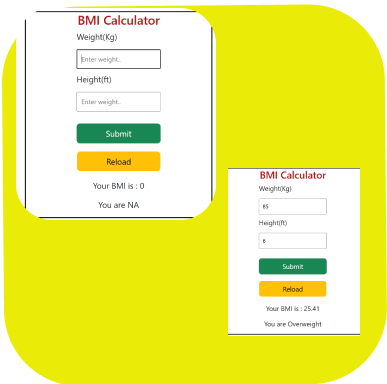
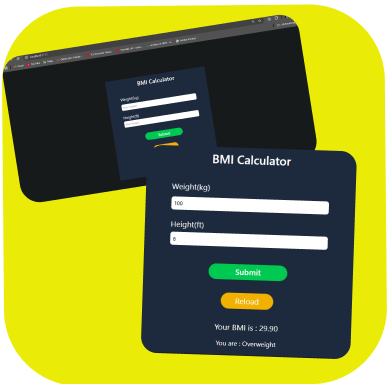
add a new project

diff --git a/app/components/ProjectsOverview/BmiCalculator.js b/app/components/ProjectsOverview/BmiCalculator.js
@@ -1,0 +1,240 @@
+"use client";
+import React, { useRef, useState } from "react";
+// Import Swiper React components
+import { Swiper, SwiperSlide } from "swiper/react";
+
+import Image from "next/image";
+
+// Import Swiper styles
+import "swiper/css";
+import "swiper/css/free-mode";
+import "swiper/css/navigation";
+import "swiper/css/thumbs";
+
+import styles from "./Projectoverview.module.css";
+
+// import required modules
+import { FreeMode, Navigation, Thumbs, Autoplay } from "swiper/modules";
+import Link from "next/link";
+
+const BmiCalculator = () => {
+  const [thumbsSwiper, setThumbsSwiper] = useState(null);
+  return (
+    <div className="main-container p-10">
+      <h1 className="flex justify-center text-5xl font-semibold mb-10">
+        BMI Calculator Using React Js
+      </h1>
+      <div className="sub-container bg-zinc-700 rounded-lg p-3">
+        <h2 className="text-2xl font-semibold text-red-500 py-2 pl-5">
+          Project Images :-
+        </h2>
+
+        <Swiper
+          styles={{
+            "--swiper-navigation-color": "#fff",
+            "--swiper-pagination-color": "#fff",
+          }}
+          spaceBetween={10}
+          navigation={true}
+          thumbs={{ swiper: thumbsSwiper }}
+          autoplay={{
+            delay: 3000,
+            disableOnInteraction: false,
+          }}
+          loop={true}
+          modules={[FreeMode, Navigation, Thumbs, Autoplay]}
+          className={styles.mySwiper2}
+        >
+          <SwiperSlide>
+            <Image
+              src="/Overview/frontendprojects/bmicalculator/bmi3.PNG"
+              alt="loading.."
+              loading="lazy"
+              layout="fill"
+            />
+          </SwiperSlide>
+          <SwiperSlide>
+            <Image
+              src="/Overview/frontendprojects/bmicalculator/bmi1.PNG"
+              alt="loading.."
+              loading="lazy"
+              layout="fill"
+            />
+          </SwiperSlide>
+          <SwiperSlide>
+            <Image
+              src="/Overview/frontendprojects/bmicalculator/bmi2.PNG"
+              alt="loading.."
+              loading="lazy"
+              layout="fill"
+            />
+          </SwiperSlide>
+          <SwiperSlide>
+            <Image
+              src="/Overview/frontendprojects/bmicalculator/bmi4.PNG"
+              alt="loading.."
+              loading="lazy"
+              layout="fill"
+            />
+          </SwiperSlide>
+        </Swiper>
+
+        <Swiper
+          onSwiper={setThumbsSwiper}
+          spaceBetween={10}
+          slidesPerView={4}
+          freeMode={true}
+          watchSlidesProgress={true}
+          modules={[FreeMode, Navigation, Thumbs]}
+          className={styles.mySwiper}
+        >
+          <SwiperSlide className={styles.slides}>
+            <Image
+              src="/Overview/frontendprojects/bmicalculator/bmi3.PNG"
+              alt="loading.."
+              loading="lazy"
+              layout="fill"
+            />
+          </SwiperSlide>
+          <SwiperSlide className={styles.slides}>
+            <Image
+              src="/Overview/frontendprojects/bmicalculator/bmi1.PNG"
+              alt="loading.."
+              loading="lazy"
+              layout="fill"
+            />
+          </SwiperSlide>
+          <SwiperSlide className={styles.slides}>
+            <Image
+              src="/Overview/frontendprojects/bmicalculator/bmi2.PNG"
+              alt="loading.."
+              loading="lazy"
+              layout="fill"
+            />
+          </SwiperSlide>
+          <SwiperSlide className={styles.slides}>
+            <Image
+              src="/Overview/frontendprojects/bmicalculator/bmi4.PNG"
+              alt="loading.."
+              loading="lazy"
+              layout="fill"
+            />
+          </SwiperSlide>
+        </Swiper>
+
+        <div className="project-description mt-10">
+          <h2 className="text-2xl font-semibold text-red-500 py-2 pl-5">
+            Project Description :-
+          </h2>
+          <div className="description px-10">
+            <p>
+              The BMI (Body Mass Index) Calculator is a simple yet effective web
+              application built using React.js that allows users to calculate
+              their BMI based on their weight and height. The application
+              determines whether the user is underweight, normal weight,
+              overweight, or obese, providing valuable health insights. This BMI
+              calculator is designed with a clean and modern UI using Tailwind
+              CSS, ensuring a smooth and responsive user experience across all
+              devices. The app utilizes useState to manage the BMI value and the
+              corresponding message displayed based on the calculated result.
+              For input handling, the app leverages useRef hooks, allowing users
+              to enter their weight and height efficiently. A reload button is
+              also included, enabling users to reset the form and enter new
+              values without refreshing the entire page. This BMI calculator is
+              an excellent tool for users looking to monitor their health and
+              understand their BMI category. It serves as a practical and
+              user-friendly application with a seamless interface and smooth
+              functionality.
+            </p>
+          </div>
+        </div>
+        <div className="project-features">
+          <h2 className="text-2xl font-semibold text-red-500 py-2 pl-5">
+            Key Features :-
+          </h2>
+          <ul className="ml-10 list-disc mt-2">
+            <h3 className="text-lg font-semibold mb-2">1. BMI Calculation</h3>
+            <li className="ml-10">
+              Accurately calculates BMI based on weight and height.
+            </li>
+          </ul>
+          <ul className="ml-10 list-disc mt-2">
+            <h3 className="text-lg font-semibold mb-2">
+              2. Health Status Message
+            </h3>
+            <li className="ml-10">
+              Displays whether the user is underweight, normal weight,
+              overweight, or obese.
+            </li>
+          </ul>
+          <ul className="ml-10 list-disc mt-2">
+            <h3 className="text-lg font-semibold mb-2">
+              3. useRef for Input Handling
+            </h3>
+            <li className="ml-10">
+              Takes values directly from the input fields efficiently.
+            </li>
+          </ul>
+          <ul className="ml-10 list-disc mt-2">
+            <h3 className="text-lg font-semibold mb-2">
+              4. useState for State Management
+            </h3>
+            <li className="ml-10">
+              Handles BMI results and status messages dynamically.
+            </li>
+          </ul>
+          <ul className="ml-10 list-disc mt-2">
+            <h3 className="text-lg font-semibold mb-2">5. Reload Button</h3>
+            <li className="ml-10">
+              Allows users to reset the form and enter new values quickly.
+            </li>
+          </ul>
+          <ul className="ml-10 list-disc mt-2">
+            <h3 className="text-lg font-semibold mb-2">
+              6. UI Design with Tailwind CSS
+            </h3>
+            <li className="ml-10">Ensures a modern and interactive design.</li>
+          </ul>
+        </div>
+
+        <div className="technology">
+          <h2 className="text-2xl font-semibold text-red-500 py-2 pl-5">
+            Technology Use :-
+          </h2>
+          <ul className="ml-10 list-disc mt-2">
+            <h3 className="text-lg font-semibold mb-2">Frontend:</h3>
+            <li className="ml-10">
+              <span className="text-xl">React.js - </span> Core framework for
+              building the BMI calculator.
+            </li>
+            <li className="ml-10">
+              <span className="text-xl">Tailwind CSS - </span>Provides a clean
+              and modern, interactive UI.
+            </li>
+            <li className="ml-10">
+              <span className="text-xl">useState Hook S - </span>Manages BMI
+              calculations and messages dynamically.
+            </li>
+            <li className="ml-10">
+              <span className="text-xl">useRef Hook - </span>Handles input
+              values efficiently.
+            </li>
+          </ul>
+        </div>
+        <div className="github-link">
+          <h2 className="text-2xl font-semibold text-red-500 py-2 pl-5">
+            GitHub Link :-
+          </h2>
+          <Link
+            className="ml-10 text-blue-500"
+            href="https://github.com/abhijit84842/Web_Development_Projects_2024/tree/master/Frontend%20Project(React%20Js)/BMI%20calculator%20using%20React"
+          >
+            See Project on gitHub
+          </Link>
+        </div>
+      </div>
+    </div>
+  );
+};
+
+export default BmiCalculator;

diff --git a/app/components/ProjectsShow/FrontendProjectsShow.js b/app/components/ProjectsShow/FrontendProjectsShow.js
@@ -58,7 +58,7 @@ const FrontendProjectsShow = () => {
                 for form handling and react-router-dom for navigation.{" "}
                 <span>
                   <Link
-                    className="text-blue-700"
+                    className="text-blue-700 text-lg"
                     href="/pages/projectall/overview/travelagencyoverview"
                   >
                     See more..
@@ -88,7 +88,7 @@ const FrontendProjectsShow = () => {
                 user-friendly web applications.
                 <span>
                   <Link
-                    className="text-blue-700"
+                    className="text-blue-700 text-lg"
                     href={"/pages/projectall/overview/wearcollectionoverview"}
                   >
                     See more..
@@ -117,7 +117,7 @@ const FrontendProjectsShow = () => {
                 scroll-based effects, and interactive elements....
                 <span>
                   <Link
-                    className="text-blue-700"
+                    className="text-blue-700 text-lg"
                     href={"/pages/projectall/overview/portfoliooverview"}
                   >
                     See more..
@@ -147,7 +147,7 @@ const FrontendProjectsShow = () => {
                 JSON data.
                 <span>
                   <Link
-                    className="text-blue-700"
+                    className="text-blue-700 text-lg"
                     href={"/pages/projectall/overview/myntraoverview"}
                   >
                     See more..
@@ -177,7 +177,10 @@ const FrontendProjectsShow = () => {
                 includes key features like displaying temperature, humidity, and
                 wind speed.
                 <span>
-                  <Link className="text-blue-700" href={"/pages/projectall/overview/weatheroverview"}>
+                  <Link
+                    className="text-blue-700 text-lg"
+                    href={"/pages/projectall/overview/weatheroverview"}
+                  >
                     See more..
                   </Link>
                 </span>
@@ -200,18 +203,20 @@ const FrontendProjectsShow = () => {
               <p className="text-black text-sm">
                 BMI Calculator project is a user-friendly React.js application
                 designed to help users quickly and accurately calculate their
-                Body Mass Index (BMI).For styling use CSS. The calculator takes
-                inputs like height and weight, processes the data, and displays
-                the BMI result instantly.
+                Body Mass Index (BMI).For styling use Tailwind CSS. The
+                calculator takes inputs like height and weight, processes the
+                data, and displays the BMI result instantly.
                 <span>
-                  <Link className="text-blue-700" href={""}>
+                  <Link
+                    className="text-blue-700 text-lg"
+                    href={"/pages/projectall/overview/bmicalculatoroverview"}
+                  >
                     See more..
                   </Link>
                 </span>
               </p>
             </div>
           </SwiperSlide>
-     
         </Swiper>
       </div>
     </div>

diff --git a/app/pages/projectall/overview/bmicalculatoroverview/page.js b/app/pages/projectall/overview/bmicalculatoroverview/page.js
@@ -1,0 +1,12 @@
+import BmiCalculator from '@/app/components/ProjectsOverview/BmiCalculator'
+import React from 'react'
+
+const page = () => {
+  return (
+    <div>
+        <BmiCalculator/>
+    </div>
+  )
+}
+
+export default page
